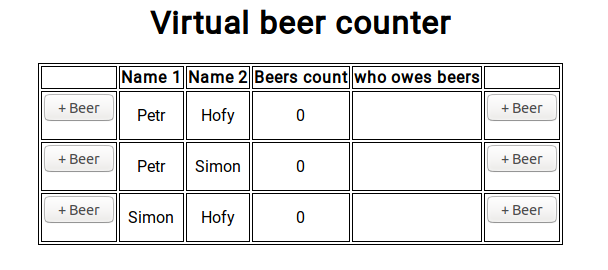
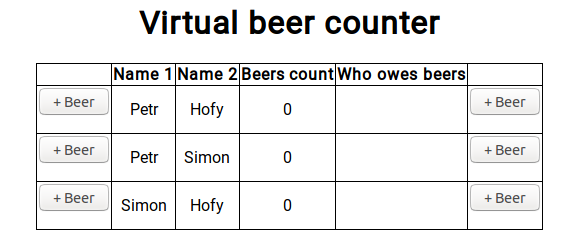
minor css update and img update

diff --git a/templates/home.html b/templates/home.html
@@ -5,12 +5,13 @@
         font-family: 'Roboto', "HelveticaNeueLight", "HelveticaNeue-Light", "Helvetica Neue Light", "HelveticaNeue", "Helvetica Neue", 'TeXGyreHerosRegular', "Helvetica", "Tahoma", "Geneva", "Arial", sans-serif;
     }
     
+
     table, th, td {
+        border-collapse: collapse;
         border: 1px solid black;   
         margin-left:auto; 
         margin-right:auto;
         text-align:center;
-
     }
 </style>
 <html>
@@ -22,7 +23,7 @@
     			<th>Name 1</th>
     			<th>Name 2</th>
     			<th>Beers count</th>
-    			<th>who owes beers</th>
+    			<th>Who owes beers</th>
     			<th></th>
 			</tr>
     		{% for beerpair in beerpairs %}
